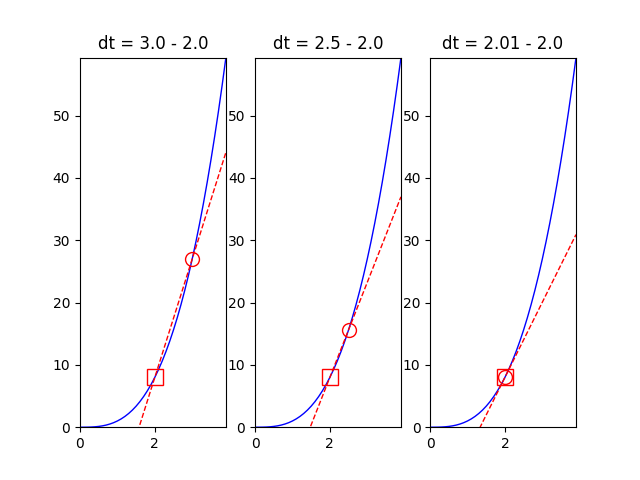
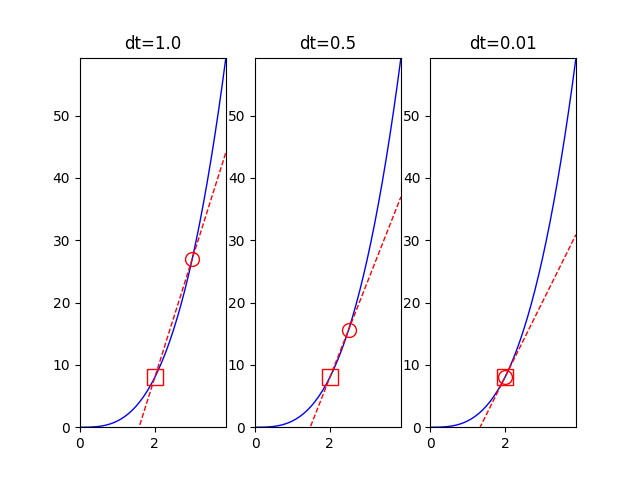
Plot a decent derivative

Changed region(s): [[0.6875, 0.0625, 0.875, 0.125], [0.1562, 0.0625, 0.3438, 0.125], [0.4375, 0.0625, 0.5938, 0.125]]

diff --git a/chapter01_math/02_derivatives_and_velocity/plot_a_decent_derivative.py b/chapter01_math/02_derivatives_and_velocity/plot_a_decent_derivative.py
@@ -1,0 +1,111 @@
+import os
+
+import numpy as np
+import matplotlib.pyplot as plt
+
+from pathlib import Path
+
+""" We'll plot three 'velocity lines': they are not strictly velocities, but should illustrate why the velocity
+is thought of as the tangent of a curve.
+Values:
+ta = 2.0
+
+a) dt = 1.0 (we already covered this before, but we'll repeat it)
+b) dt = 0.5
+c) dt = 0.1
+"""
+
+# Generate array from 0 to 4, with step of 0.1
+tstart = 0
+tend = 4
+step = 0.1
+time = np.arange(tstart, tend, step)
+
+# Define a function for the car's position at any time
+def car_position_eq(time):
+    return time ** 3
+
+car_positions = car_position_eq(time)
+
+# We'll evaluate the 'velocity line' at instant ta:
+ta = 2.0
+
+# Initialise the subplot function using number of rows and columns
+figure, axis = plt.subplots(1, 3)
+
+# -------------------------- Velocity with dt = 1.0 -------------------------
+dt = 1.0
+tb = ta + dt
+
+xa = car_position_eq(ta)
+xb = car_position_eq(tb)
+
+v = (xb - xa) / (tb - ta)  # Which is the same as m = (xb - xa) / dt, from the awful plot
+
+v_line = v * (time - ta) + xa
+
+# Generate "plt" object using plot() method, and add title.
+plot1 = axis[0]
+plot1.plot(time, car_positions, 'b-', linewidth=1)
+plot1.plot(time, v_line, 'r--', linewidth=1)
+plot1.plot(ta, xa, 'rs', fillstyle='none', markersize=12)
+plot1.plot(tb, xb, 'ro', fillstyle='none', markersize=10)
+
+# Set limits for axis. If not using "plt.xlim(...)" notation, use axis[].set_...
+plot1.set_xlim(0, max(time))
+plot1.set_ylim(0, max(car_positions))
+plot1.set_title(f'{dt=}')
+
+# -------------------------- Velocity with dt = 0.5 -------------------------
+dt = 0.5
+tb = ta + dt
+
+xa = car_position_eq(ta)
+xb = car_position_eq(tb)
+
+v = (xb - xa) / (tb - ta)
+v_line = v * (time - ta) + xa
+
+# Generate "plt" object using plot() method, and add title.
+plot2 = axis[1]
+plot2.plot(time, car_positions, 'b-', linewidth=1)
+plot2.plot(time, v_line,'r--', linewidth=1)
+plot2.plot(ta, xa, 'rs', fillstyle='none', markersize=12)
+plot2.plot(tb, xb, 'ro', fillstyle='none', markersize=10)
+
+# Set limits for axis. If not using "plt.xlim(...)" notation, use axis[].set_...
+plot2.set_xlim(0, max(time))
+plot2.set_ylim(0, max(car_positions))
+plot2.set_title(f'{dt=}')
+
+# -------------------------- Velocity with dt = 0.1 -------------------------
+dt = 0.01
+tb = ta + dt
+
+xa = car_position_eq(ta)
+xb = car_position_eq(tb)
+
+v = (xb - xa) / (tb - ta)
+v_line = v * (time - ta) + xa
+
+# Generate "plt" object using plot() method, and add title.
+plot3 = axis[2]
+plot3.plot(time, car_positions, 'b-', linewidth=1)
+plot3.plot(time, v_line, 'r--', linewidth=1)
+plot3.plot(ta, xa, 'rs', fillstyle='none', markersize=12)
+plot3.plot(tb, xb, 'ro', fillstyle='none', markersize=10)
+
+# Set limits for axis. If not using "plt.xlim(...)" notation, use axis[].set_...
+plot3.set_xlim(0, max(time))
+plot3.set_ylim(0, max(car_positions))
+plot3.set_title(f'{dt=}')
+
+# Save the image
+save_path = Path(__file__).parent / 'img'
+
+if not save_path.is_dir():
+    save_path.mkdir()  # Create the directory if it does not exist
+
+plt.savefig(save_path / 'fig_derivative.png')
+
+""" When using this method of defining the plot first, and then filling it with data, the method plt.show() cannot be used. """

diff --git a/chapter01_math/02_derivatives_and_velocity/02_derivatives_and_velocity.md b/chapter01_math/02_derivatives_and_velocity/02_derivatives_and_velocity.md
@@ -1,4 +1,4 @@
-## Do you know what a derivative is?
+## What is a derivative?
 You might be thinking about a weird calculus limit. That's okay, but let's get the Physics angle. Suppose a car's position is described as
 ```
 x(t) = t^3
@@ -19,4 +19,11 @@ Finally the velocity is calculated as distance over time:
 v = [ x(t+dt) - x(t) ] / dt
 ```
 
-You've seen this expression in every calculus book. We won't get into the math of it... but let's plot how it would look like, for different values of *dt*
+You've seen this expression in every calculus book. There's nothing magical about it...  
+Actually, there IS some magic; and it happens when we take a closer look to *dt*.
+
+1. Let's plot an awful derivative. It's not really a derivative, but we'll get there. Run `plot_an_awful_derivative.ipynb`
+
+2. Now, let's plot better approximations in `plot_a_decent_derivative.py`
+
+3. Finally, let's improve our software skills. This will become handy in the future. We'll repeat what we did before, but with *functions*.
